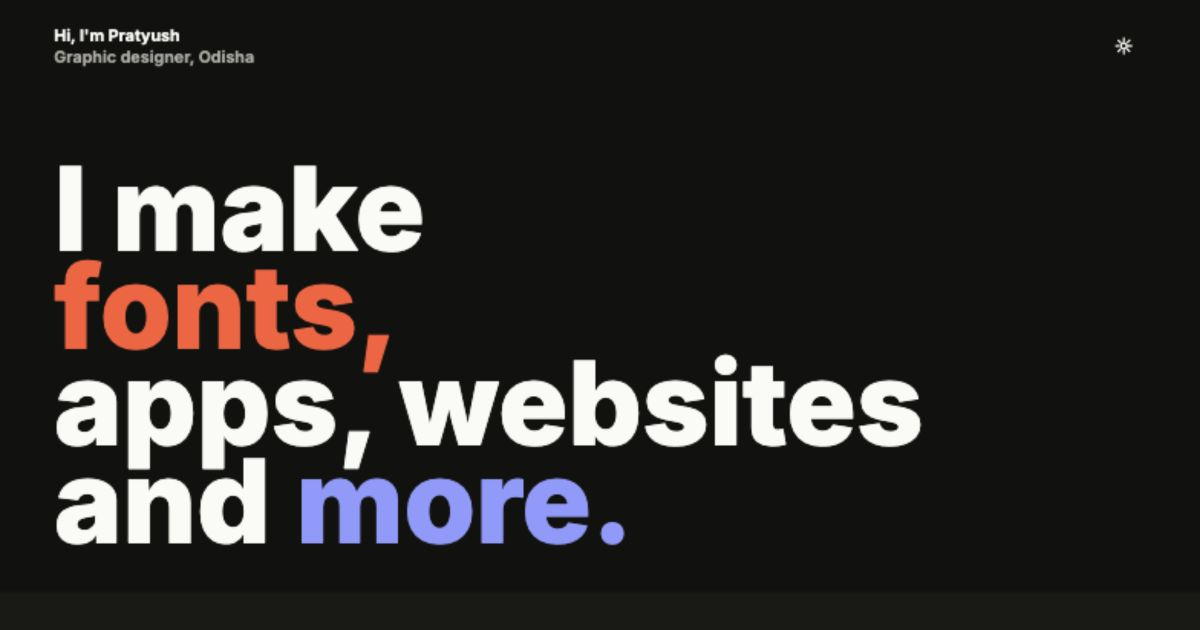
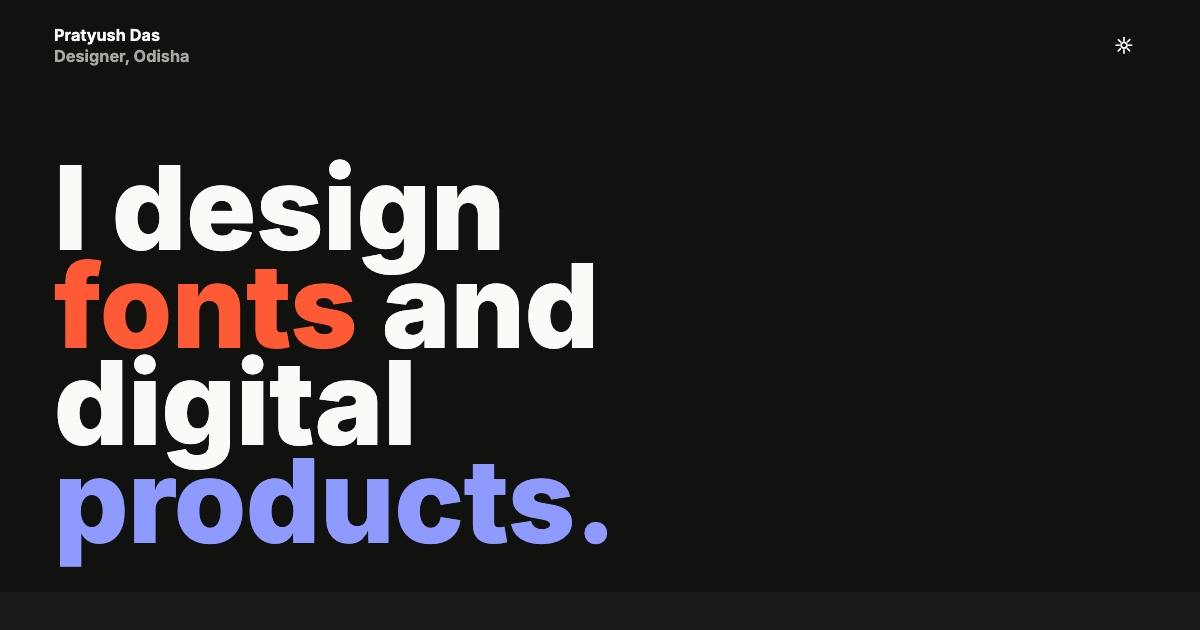
Refine profile typography and biography

Changed region(s): [[0.0308, 0.2413, 0.7708, 0.9048], [0.0308, 0.0302, 0.2158, 0.1206], [0.925, 0.0603, 0.9558, 0.0905]]

diff --git a/index.html b/index.html
@@ -18,7 +18,7 @@
   <meta property="og:title" content="Pratyush Das | Graphic Designer" />
   <meta
     property="og:description"
-    content="I make fonts, apps, websites and more."
+    content="I design fonts and digital products."
   />
   <meta property="og:url" content="https://pratyushdas.in/" />
   <meta property="og:image" content="https://pratyushdas.in/assets/social-card.jpg" />
@@ -26,13 +26,13 @@
   <meta property="og:image:height" content="630" />
   <meta
     property="og:image:alt"
-    content="Pratyush Das — I make fonts, apps, websites and more."
+    content="Pratyush Das — I design fonts and digital products."
   />
   <meta name="twitter:card" content="summary_large_image" />
   <meta name="twitter:title" content="Pratyush Das | Graphic Designer" />
   <meta
     name="twitter:description"
-    content="I make fonts, apps, websites and more."
+    content="I design fonts and digital products."
   />
   <meta name="twitter:image" content="https://pratyushdas.in/assets/social-card.jpg" />
 
@@ -57,7 +57,7 @@
       // The dark default remains available when storage is restricted.
     }
   </script>
-  <link rel="stylesheet" href="assets/styles.css?v=20" />
+  <link rel="stylesheet" href="assets/styles.css?v=21" />
   <script type="application/ld+json">
     {
       "@context": "https://schema.org",
@@ -86,8 +86,8 @@
   <header class="site-header" id="top">
     <div class="header-inner">
       <p class="site-identity">
-          Hi, I&apos;m Pratyush<br />
-          <span>Graphic designer, Odisha</span>
+          Pratyush Das<br />
+          <span>Designer, Odisha</span>
       </p>
       <button
         class="theme-button"
@@ -104,10 +104,10 @@
   <main id="main" tabindex="-1">
     <section class="hero" aria-labelledby="hero-title">
       <h1 class="hero-title" id="hero-title">
-        <span>I make</span>
-        <span class="hero-word hero-word-hot">fonts,</span>
-        <span>apps, websites</span>
-        <span>and <span class="hero-word hero-word-cool">more.</span></span>
+        <span>I design</span>
+        <span><span class="hero-word hero-word-hot">fonts</span> and</span>
+        <span>digital</span>
+        <span class="hero-word hero-word-cool">products.</span>
       </h1>
     </section>
 
@@ -130,40 +130,36 @@
         <div class="view-shell" data-view-shell>
           <article class="view-panel narrative-panel" data-view-panel="narrative">
             <p>
-              I&apos;m the Principal Designer at East Coast Foundry. For a decade,
-              I&apos;ve designed typefaces, identities and the graphic systems
-              behind products and services.
-              <span class="copy-break" aria-hidden="true">&bull;</span>
-              I&apos;m from the 50th Visual Communication batch at
-              <a href="https://youngdesigners.nid.edu/archive/yd15/student/617" target="_blank" rel="noreferrer">NID Ahmedabad</a>,
-              where I found my love for visuals, technology and culture. At
-              Indian Type Foundry between 2015 and 2017, I designed
-              <a href="https://typographica.org/typeface-reviews/ashoka-odia/" target="_blank" rel="noreferrer">Ashoka Odia</a>,
-              a calligraphic Odia typeface.
-              <span class="copy-break" aria-hidden="true">&bull;</span>
-              The universal need for communication has allowed me to work
-              across diverse sectors. In
-              <strong><time datetime="2020">2020</time></strong> I became Lead
-              UX Designer at Licious, designing the system behind its
-              customer-facing products.
+              I&apos;m the Principal Designer at East Coast Foundry, working
+              across typefaces, identities and design systems for commercial
+              and
+              <a href="https://leelavati.in/en/supporters/acknowledgements" target="_blank" rel="noreferrer">developmental projects</a>.
+              I also teach in adjunct roles at design institutions and
+              national universities.
             </p>
             <p>
-              My relationship with letterforms and fonts continued alongside
-              that work through collaborations with type foundries. Some of
-              this work has been recognised by
+              I designed my first typeface,
+              <a href="https://typographica.org/typeface-reviews/ashoka-odia/" target="_blank" rel="noreferrer">Ashoka Odia</a>,
+              with Indian Type Foundry as my graduation project at
+              <a href="https://youngdesigners.nid.edu/archive/yd15/student/617" target="_blank" rel="noreferrer">NID Ahmedabad</a>.
+              Over the past decade, I have worked across product and
+              communication design for startups and large organisations. As
+              Lead UX Designer at Licious, I built the design system and
+              processes behind its consumer-facing interfaces.
+            </p>
+            <p>
+              Letterforms remained central to my practice through
+              collaborations with type foundries. Some of this work has been
+              recognised by
               <a href="https://www.red-dot.org/project/november-66415" target="_blank" rel="noreferrer">Red Dot</a>
               and
               <a href="https://www.oneclub.org/awards/tdcawards/-award/46267/november-south-asia/" target="_blank" rel="noreferrer">Type Directors Club</a>.
-              <span class="copy-break" aria-hidden="true">&bull;</span>
-              In <strong><time datetime="2024">2024</time></strong> I returned
-              to type design study at the
+              In <strong><time datetime="2024">2024</time></strong>, I returned
+              to formal type design study at the
               <a href="https://plantininstituut.be/en/project/in-plantins-footsteps-2025/" target="_blank" rel="noreferrer">Plantin-Moretus Museum</a>
-              in Antwerp, reviving Robert Granjon and Hendrik van den Keere as
-              Grand Paragon, my first Latin typeface. Today, my design practice
-              moves between commercial and
-              <a href="https://leelavati.in/en/supporters/acknowledgements" target="_blank" rel="noreferrer">developmental projects</a>
-              through East Coast Foundry in Bhubaneswar, and adjunct teaching
-              at design institutions and national universities.
+              in Antwerp, reviving work by Robert Granjon and Hendrik van den
+              Keere. I am now working on some exciting new typefaces in
+              Bhubaneswar, Odisha.
             </p>
           </article>
 
@@ -230,6 +226,6 @@
     <a class="footer-top" href="#top" aria-label="Return to the beginning" data-scroll-top>&uarr;</a>
   </footer>
 
-  <script src="assets/main.js?v=5"></script>
+  <script src="assets/main.js?v=6"></script>
 </body>
 </html>

diff --git a/assets/styles.css b/assets/styles.css
@@ -1,4 +1,15 @@
 @font-face {
+  font-family: "Geist Variable";
+  font-style: normal;
+  font-display: swap;
+  font-weight: 100 900;
+  src: url("./fonts/geist-latin-wght-normal.woff2") format("woff2-variations");
+  unicode-range: U+0000-00FF, U+0131, U+0152-0153, U+02BB-02BC,
+    U+02C6, U+02DA, U+02DC, U+0304, U+0308, U+0329, U+2000-206F,
+    U+20AC, U+2122, U+2191, U+2193, U+2212, U+2215, U+FEFF, U+FFFD;
+}
+
+@font-face {
   font-family: Inter;
   font-style: normal;
   font-display: swap;
@@ -17,7 +28,8 @@
   --frame: 1500px;
   --gutter: clamp(44px, 4.5vw, 64px);
   --ease: cubic-bezier(0.22, 1, 0.36, 1);
-  font-family: Inter, ui-sans-serif, system-ui, -apple-system, BlinkMacSystemFont, "Segoe UI", sans-serif;
+  --font-sans: Inter, ui-sans-serif, system-ui, -apple-system, BlinkMacSystemFont, "Segoe UI", sans-serif;
+  font-family: var(--font-sans);
 }
 
 html[data-theme="dark"] {
@@ -59,7 +71,7 @@ body {
   overflow-x: clip;
   background: var(--page);
   color: var(--ink);
-  font-family: Inter, ui-sans-serif, system-ui, -apple-system, BlinkMacSystemFont, "Segoe UI", sans-serif;
+  font-family: var(--font-sans);
   font-synthesis: none;
   letter-spacing: 0;
   transition: background-color 260ms ease, color 260ms ease;
@@ -356,9 +368,10 @@ a {
 
 .narrative-panel p {
   max-width: 42ch;
+  font-family: "Geist Variable", var(--font-sans);
   font-size: 2.4rem;
   font-weight: 520;
-  line-height: 1.32;
+  line-height: 1.29;
 }
 
 .narrative-panel p + p {
@@ -384,14 +397,6 @@ a {
   color: var(--hot);
   outline: 0;
   text-decoration-color: currentColor;
-}
-
-.copy-break {
-  display: inline-block;
-  margin-inline: 0;
-  color: var(--hot);
-  font-weight: 800;
-  white-space: nowrap;
 }
 
 .recognitions-section {
@@ -671,7 +676,7 @@ a {
 
   .narrative-panel p {
     font-size: 1.58rem;
-    line-height: 1.34;
+    line-height: 1.31;
   }
 
   .record-panel h3 {

diff --git a/404.html b/404.html
@@ -26,7 +26,7 @@
       // The dark default remains available when storage is restricted.
     }
   </script>
-  <link rel="stylesheet" href="/assets/styles.css?v=20" />
+  <link rel="stylesheet" href="/assets/styles.css?v=21" />
 </head>
 <body class="error-page">
   <main class="error-main">

diff --git a/README.md b/README.md
@@ -20,8 +20,9 @@ custom domain, and `.nojekyll` keeps all static assets untouched.
 
 ## Font
 
-Inter is self-hosted as a Latin variable WOFF2 file. Its SIL Open Font License
-is included at `assets/fonts/OFL.txt`.
+Inter and Geist are self-hosted as Latin variable WOFF2 files. Their SIL Open
+Font Licenses are included at `assets/fonts/OFL.txt` and
+`assets/fonts/GEIST-OFL.txt`.
 
 Unless otherwise stated, the site content and design are copyright Pratyush
 Das. All rights reserved.
